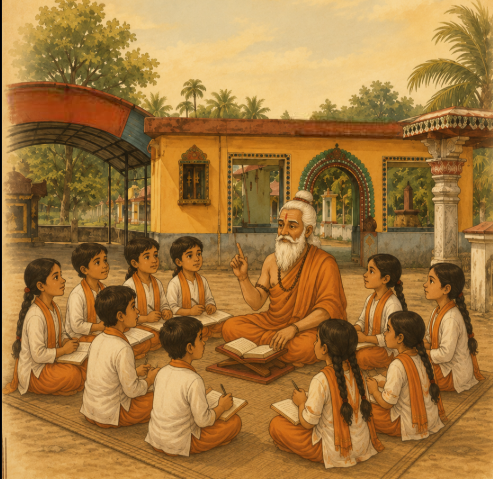
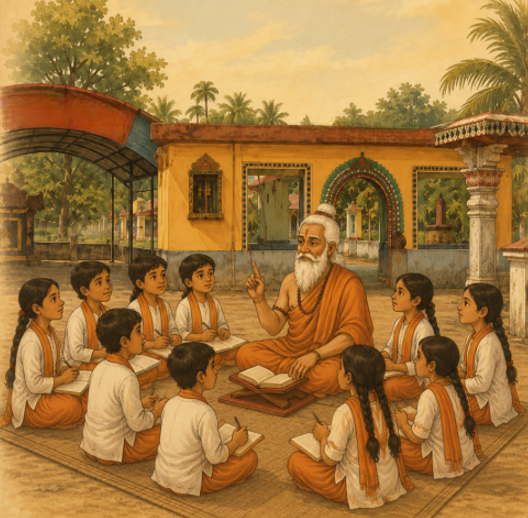
Bala Samskara Kendra

diff --git a/style.css b/style.css
@@ -57,13 +57,72 @@ body{
     color: brown;
 }
 
+#home{
+    min-height: calc(100vh - 140px);
+    display: flex;
+    align-items: center;
+    justify-content: space-between;
+    padding: 50px 80px;
+    gap: 60px;
+}
+
+.home-content{
+    flex: 1;
+    max-width: 600px;
+}
+
+.home-content h1{
+    font-size: 52px;
+    color: rgb(145,34,34);
+    margin-bottom: 10px;
+}
+
+.home-content h2{
+    font-size: 30px;
+    color: #8b4513;
+    margin-bottom: 5px;
+}
+
+.home-content .description{
+    font-size: 17px;
+    line-height: 1.7;
+}
+
+.home-content p{
+    font-size: 22px;
+    color:#5c2c06;
+}
+.image{
+    flex:1;
+    display: flex;
+    justify-content: center;
+    align-items: center;
+}
+
 .image img{
-    width: 300px;
-    height:300px;
-    display: block;
-    margin-left: auto;
-    margin-top:30px;
-   
-    border-radius: 150px;
-    filter: drop-shadow(0 10px 20px rgba(0, 0, 0, 0.25));
+    width: 420px;
+    height: 420px;
+    object-fit: contain;
+    filter: drop-shadow(0 15px25px rgba(0,0,0,0.3));
+}
+
+.home-buttons{
+    display: flex;
+    gap: 20px;
+    margin-top: 30px;
+}
+
+.home-buttons a{
+    text-decoration: none;
+    padding: 12px 25px;
+    border-radius: 25px;
+    background-color: rgb(145,34,34);
+    color: white;
+    font-weight: 600;
+    transition: 0.3s;
+}
+
+.home-buttons a:hover{
+    transform: translateY(-3px);
+    background: #8b4513;
 }

diff --git a/index.html b/index.html
@@ -30,14 +30,34 @@
     </nav>
 
     <section id="home">
+        <div class="home-content">
+            <h1>Welcome to Gurukula</h1>
+            <h2>Bala Samskara Kendra</h2>
+            <p>
+                Kinnipadavu
+            </p>
+
+            <p class="description">
+                Nurturing values, culture, discipline and knowledge
+                in young minds.
+            </p>
+
+            <div class="home-buttons">
+                <a href="">About Us</a>
+                <a href="">Contact Us</a>
+            </div>
+        </div>
+
+
         <div class="image">
             <img src="gurukul.png" alt="">
         </div>
     </section>
+
     <script src="https://unpkg.com/aos@2.3.1/dist/aos.js"></script>
 
 <script>
     AOS.init();
 </script>
 </body>
-</html>
+</html>>
